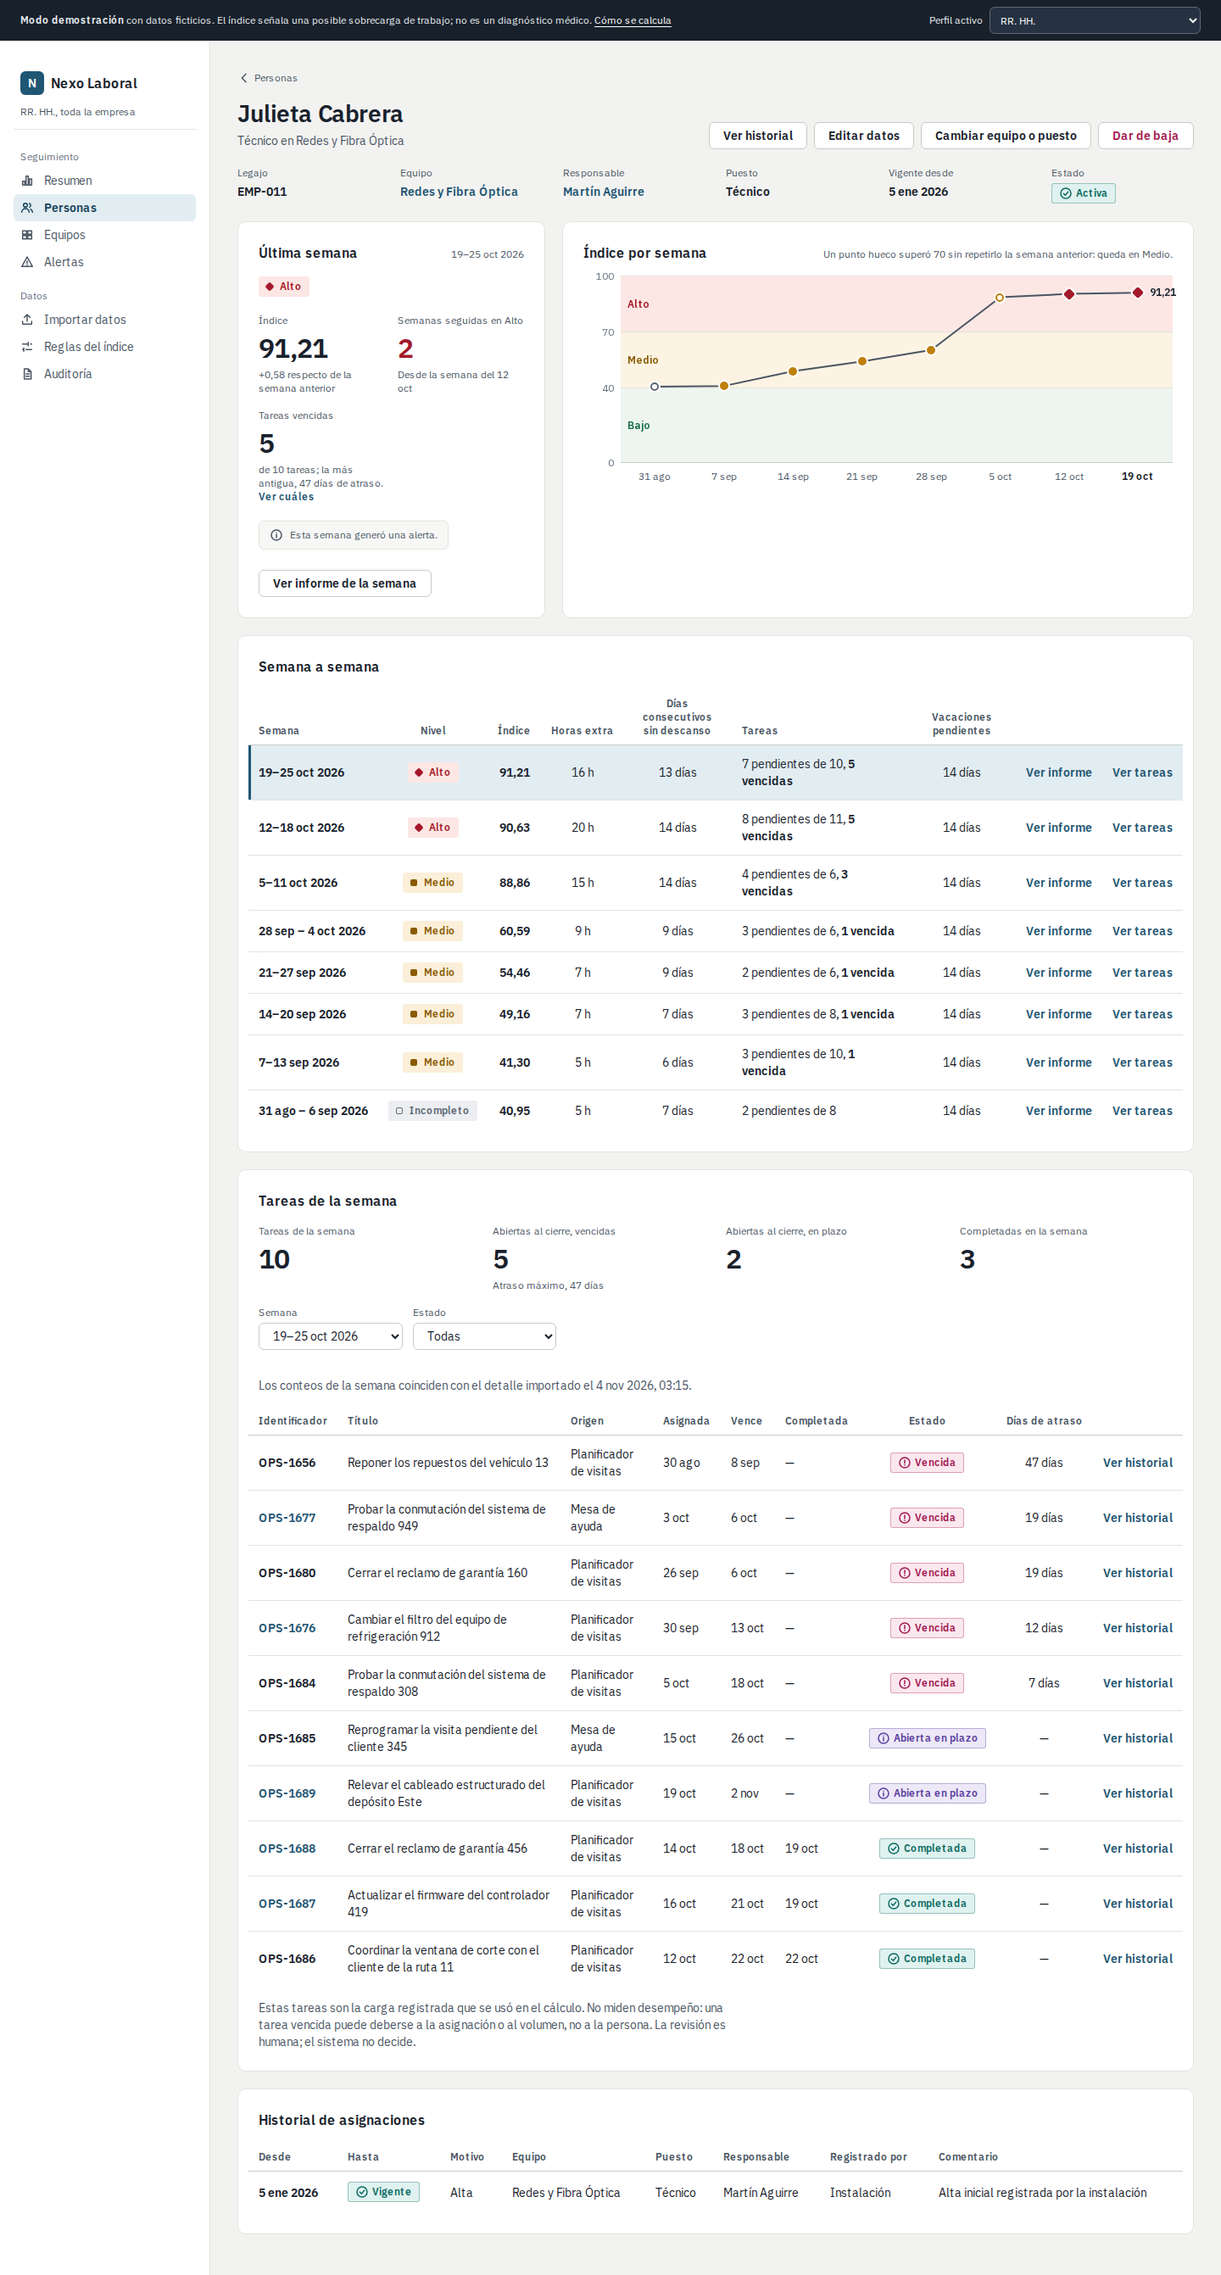
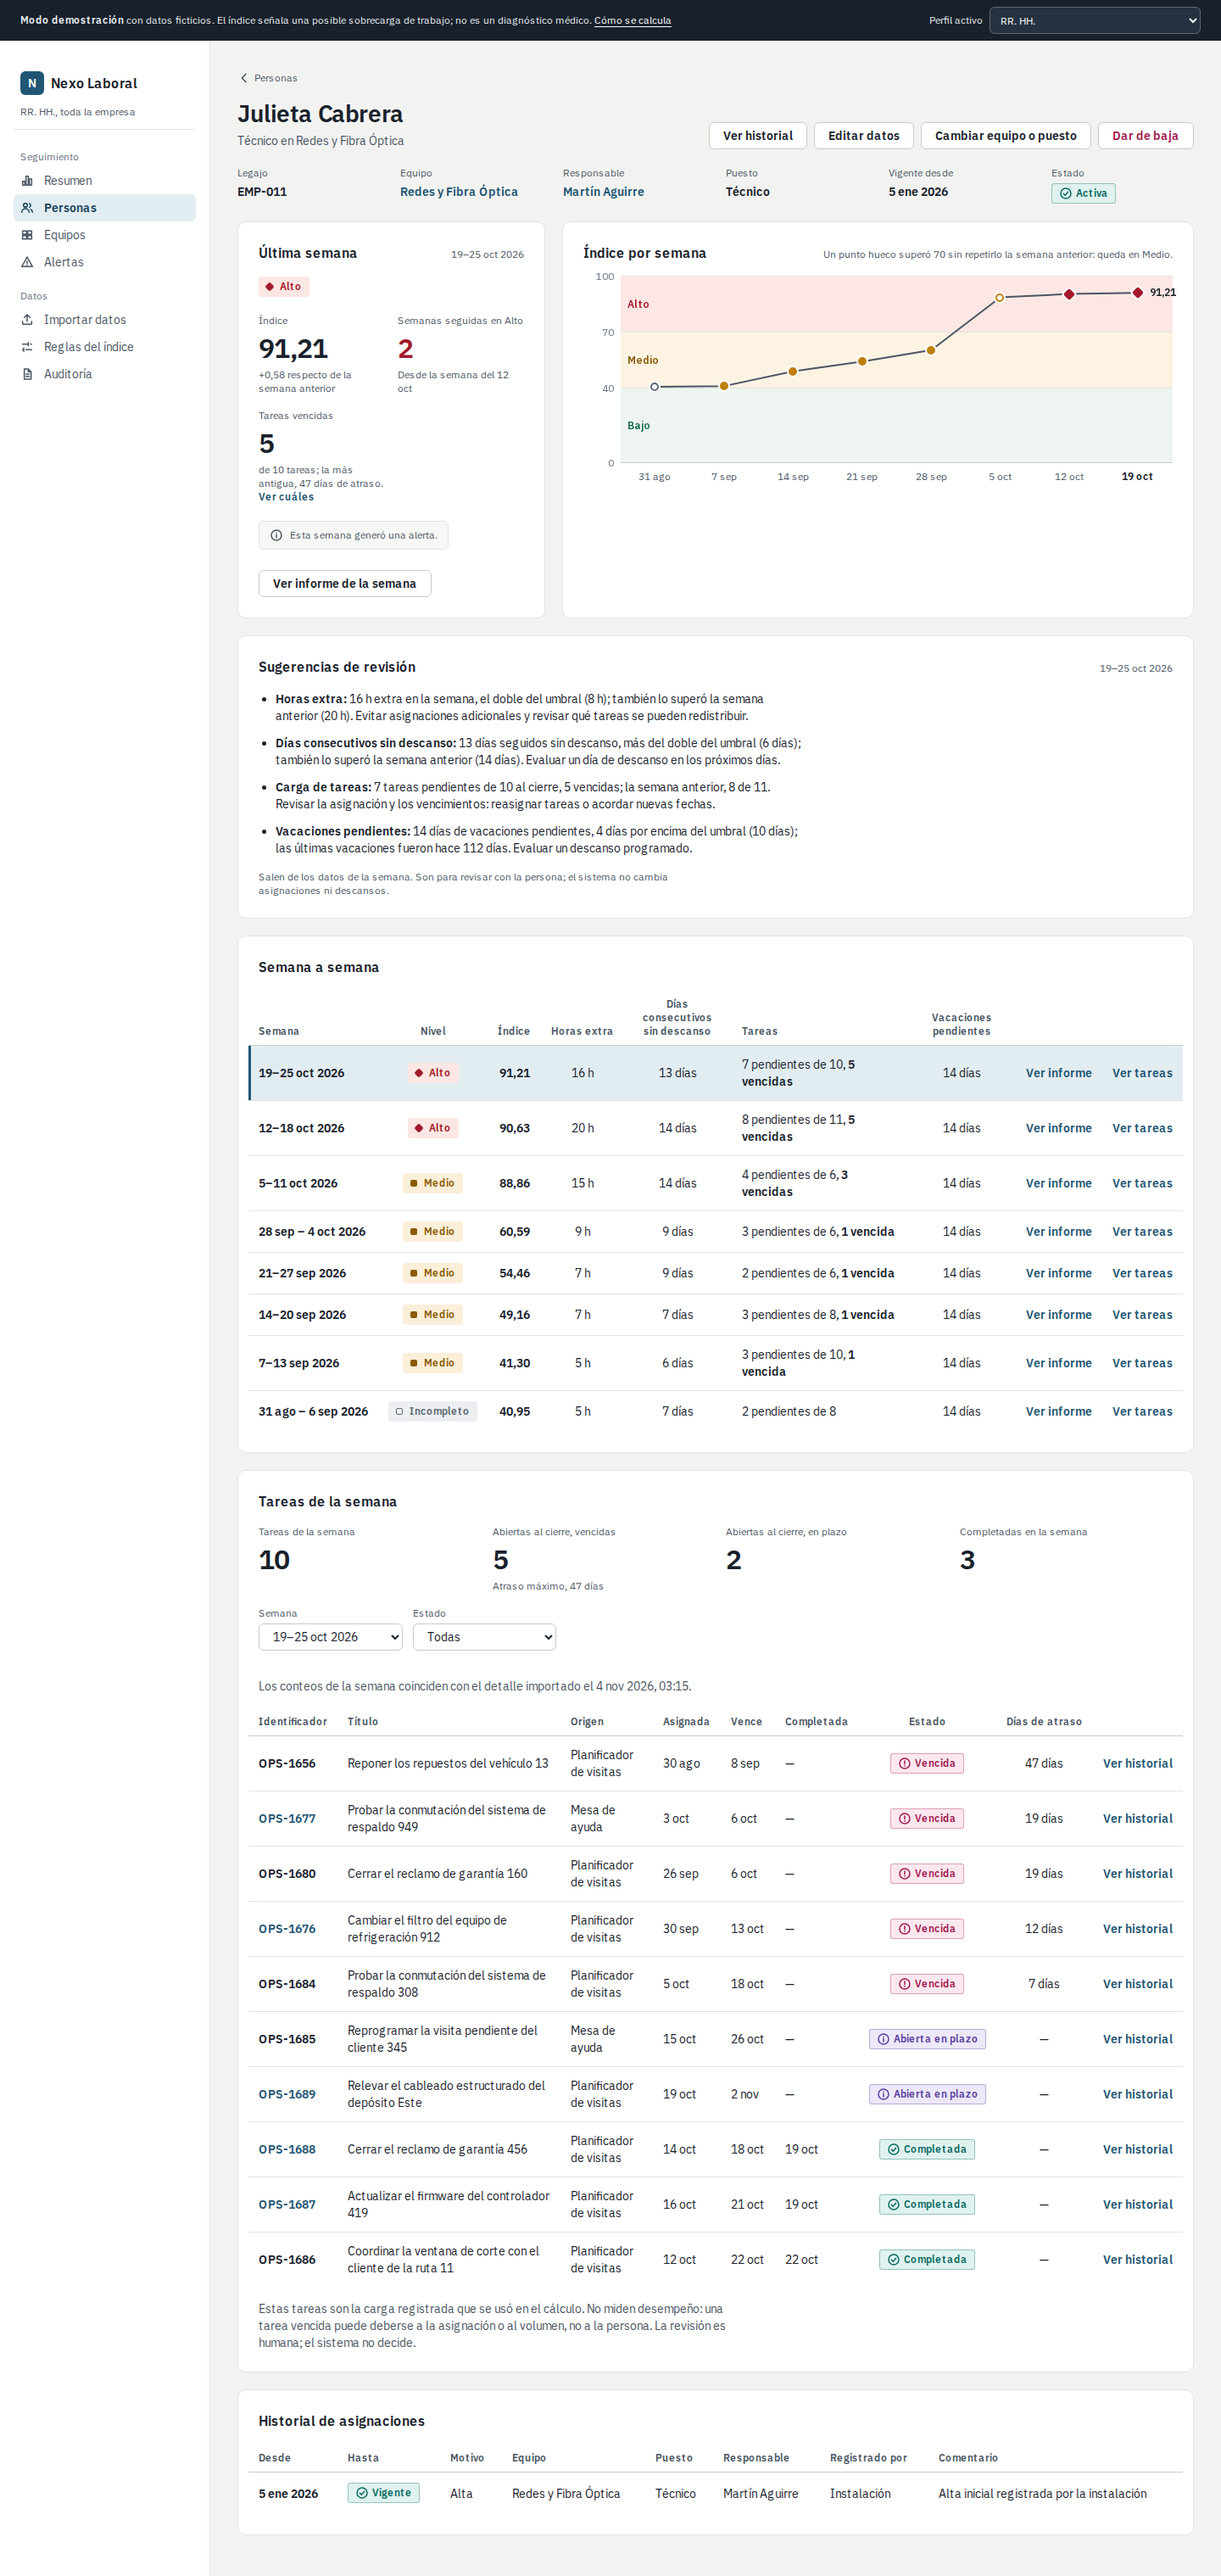
docs(views): regenerate the view book with data-based suggestions

diff --git a/Docs/libro-de-vistas/README.md b/Docs/libro-de-vistas/README.md
@@ -1,6 +1,6 @@
 # Libro de vistas
 
-Capturas de cada pantalla por rol, generadas con `node scripts/libro-vistas.mjs` contra http://127.0.0.1:3000 en el commit `c843dc1`. Movimiento reducido activo; página completa.
+Capturas de cada pantalla por rol, generadas con `node scripts/libro-vistas.mjs` contra http://127.0.0.1:3000 en el commit `f648c42`. Movimiento reducido activo; página completa.
 
 ## 00-ingreso
 
